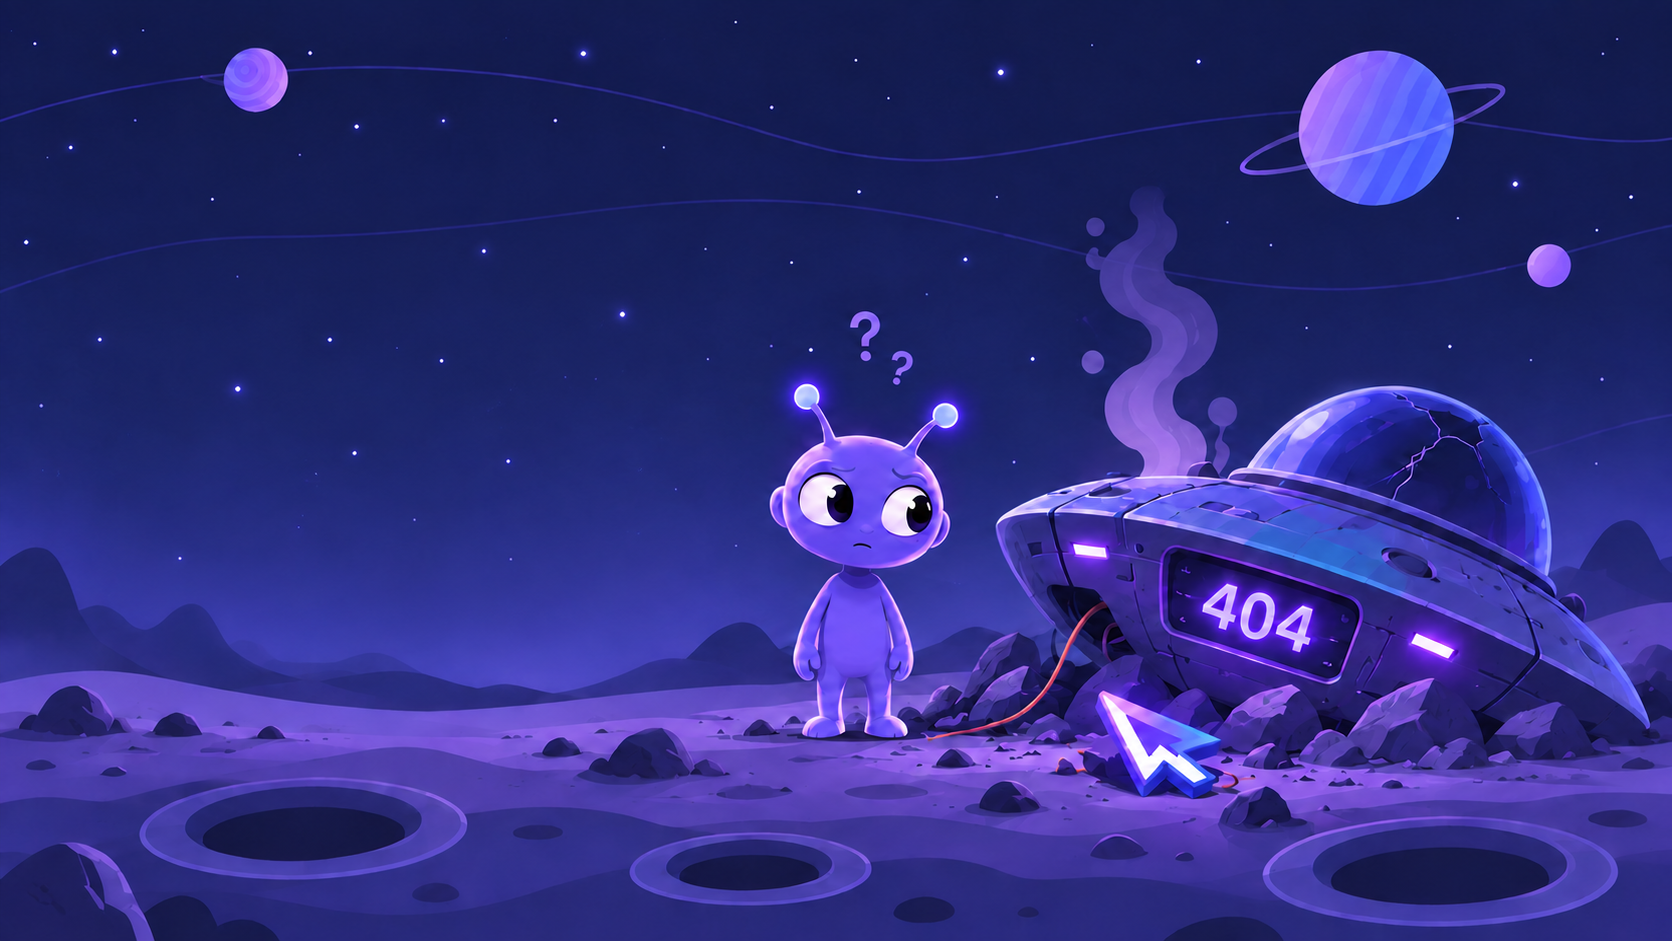
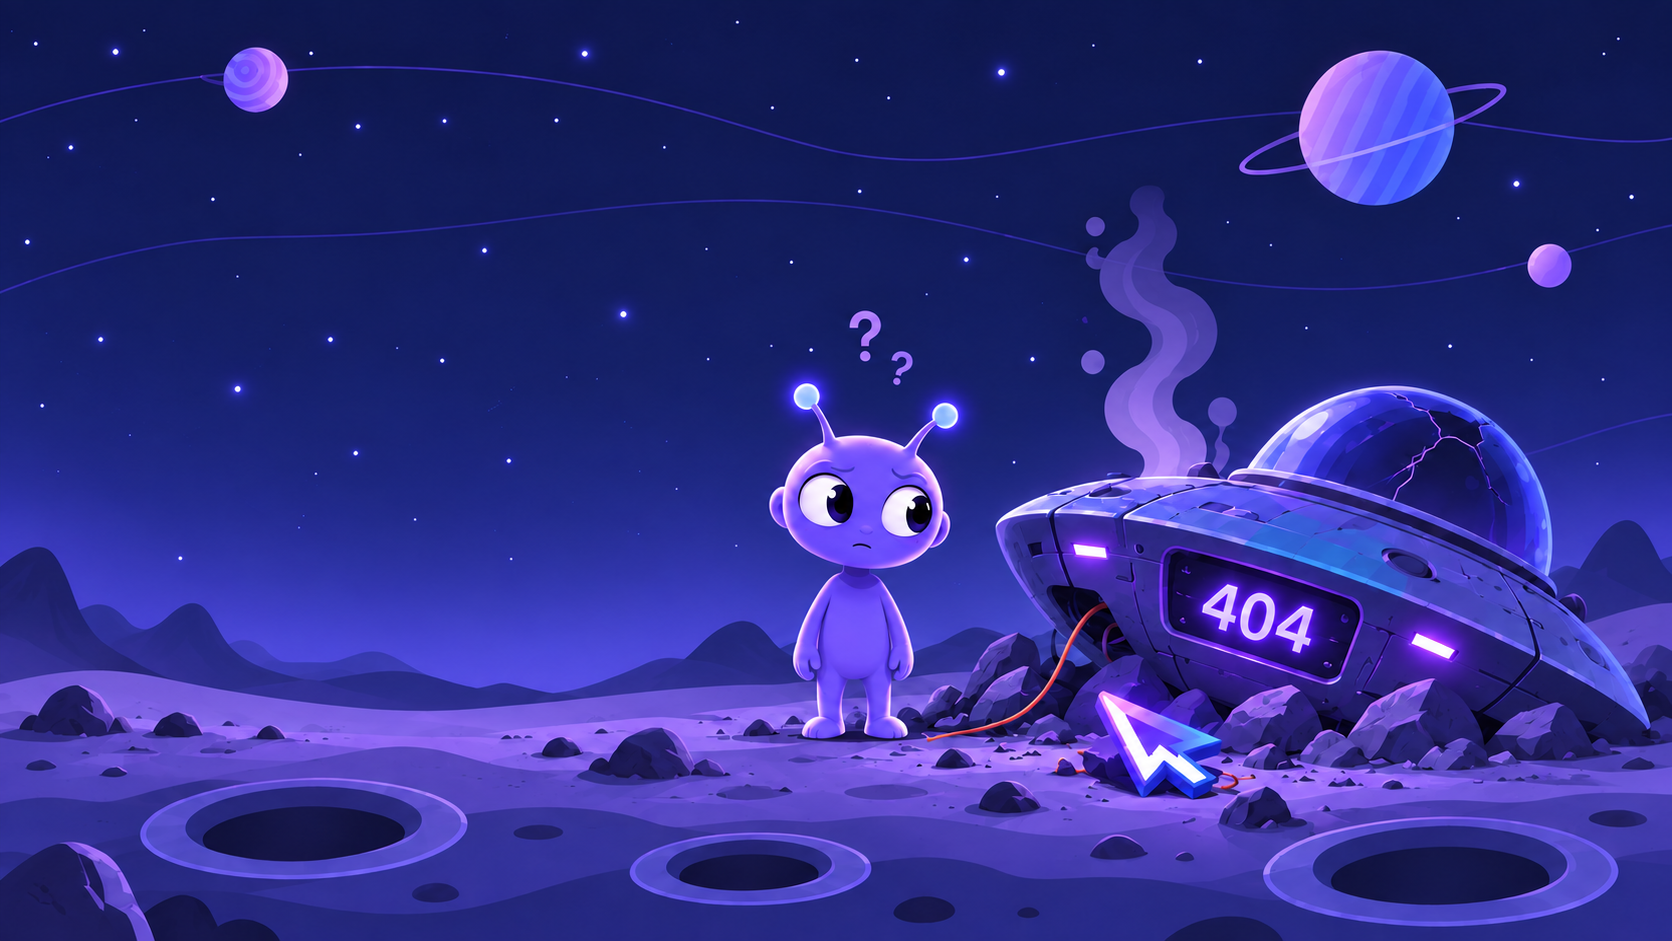
Add seated contact alien and update 404 background

diff --git a/styles.css b/styles.css
@@ -1410,6 +1410,28 @@ main.tariffs-page {
     color: white;
 }
 
+.home-page .contact-section {
+    overflow: visible;
+    margin-bottom: 125px;
+}
+.contact-alien {
+    position: absolute;
+    width: 275px;
+    height: auto;
+    left: calc(25% - 137.5px);
+    bottom: -80px;
+    z-index: 6;
+    pointer-events: none;
+    user-select: none;
+}
+@media (min-width: 901px) {
+    .home-page .contact-info { padding-bottom: 190px; }
+}
+@media (max-width: 900px) {
+    .home-page .contact-section { padding-bottom: 270px; }
+    .contact-alien { width: 240px; left: calc(50% - 120px); bottom: -70px; }
+}
+
 .contact-info h2 {
     margin: 0 0 18px;
 

diff --git a/404.php b/404.php
@@ -15,7 +15,7 @@ header('Content-Type: text/html; charset=utf-8');
 <body>
 <main class="error-page">
   <div class="scene-frame">
-    <img class="error-page__scene" src="/assets/images/404-space-scene.png?v=20260911-232620" width="1672" height="941" alt="" aria-hidden="true" draggable="false" fetchpriority="high">
+    <img class="error-page__scene" src="/assets/images/404-space-scene.png?v=20260922-2" width="1672" height="941" alt="" aria-hidden="true" draggable="false" fetchpriority="high">
   <section class="error-copy" aria-labelledby="error-heading">
     <div class="error-code">404</div>
     <h1 id="error-heading">Упс, мы потеряли сигнал этой страницы.</h1>

diff --git a/home.php b/home.php
@@ -713,6 +713,8 @@ if ($_SERVER['REQUEST_METHOD'] === 'POST') {
             class="contact-section"
             id="application">
 
+            <img class="contact-alien" src="assets/images/contact-alien.png" alt="" aria-hidden="true" width="1086" height="1448" loading="lazy">
+
             <div class="contact-info">
 
                 <span class="section-label">
